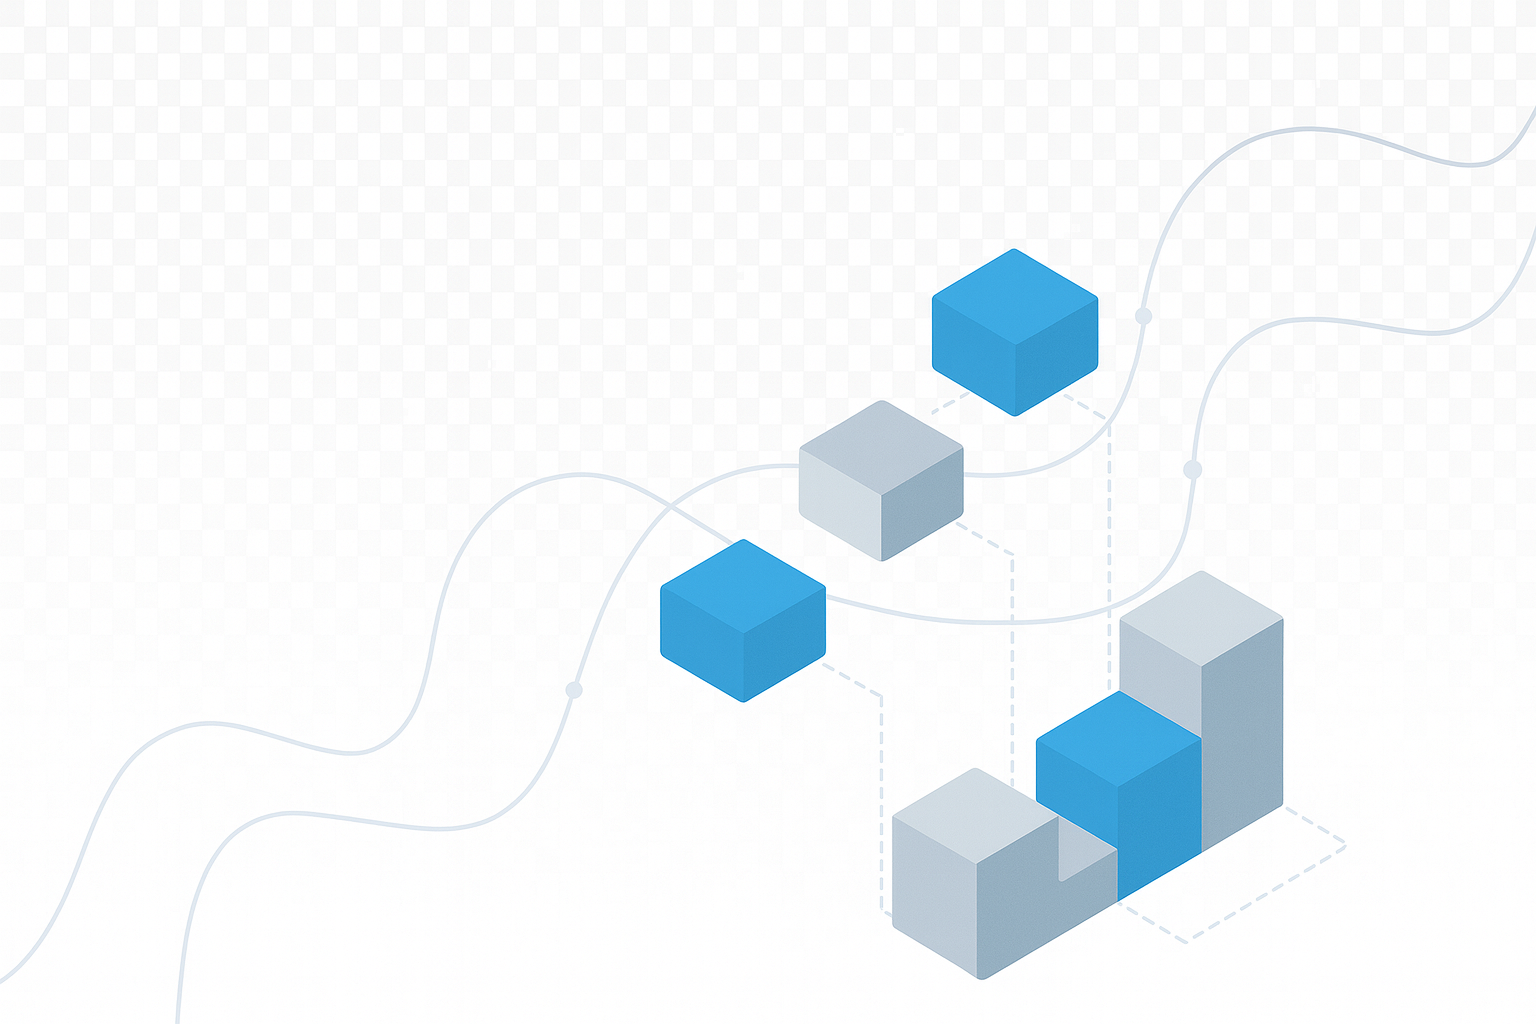
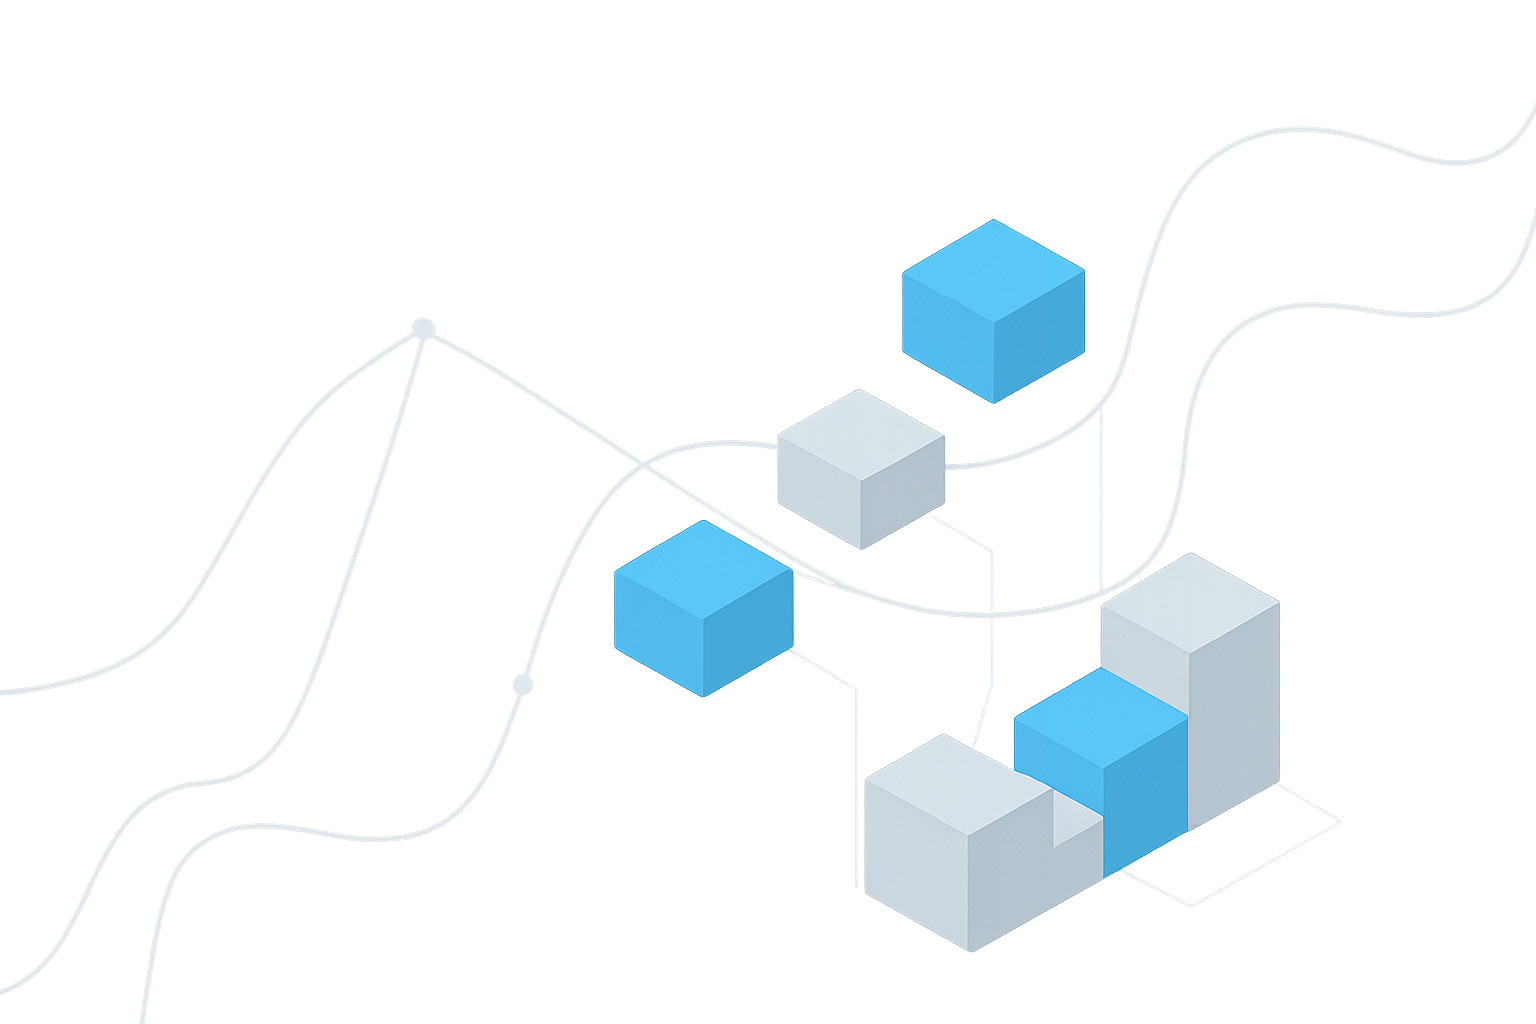
feat: added new sections into architecture page

diff --git a/index.html b/index.html
@@ -451,10 +451,41 @@
       <div class="highlight-box" id="data-generation">Loading generation logic...</div>
       <div class="highlight-box" id="data-value">Loading value for solution...</div>
       <p id="data-flow-text">
-        High-level data flow.
-      <div class="empty-state" id="data-flow-visual">
-        Data flow diagram.
-      </div>
+        This diagram shows how data actually moves inside StudentHub. Each portal (Student, Employer, University/Admin) writes into specific JSON data sources: events, jobs, news, watchlists, assignments, notifications, mentorships, and student profile activity. These files feed into a scoring engine that calculates each student’s focus and engagement based on real actions: events attended, news viewed, jobs applied, notes written, and watchlist items. The studentMetrics.json file becomes the central source for AI prompts, job-match analysis, improvement recommendations, cover letter drafts, and mentorship suggestions. Finally, all processed data goes to dashboards for admins and program staff, giving them a real view of engagement, employability, and mentoring pipelines.
+      </p>
+      <figure class="figure">
+        <img
+          class="lightbox-img"
+          src="assets/img/data-flow.png"
+          data-full="assets/img/data-flow.png"
+          data-caption="High-level data flow for StudentHub."
+          alt="High-level data flow diagram"
+        />
+        <figcaption>Figure A4. High-level data flow for StudentHub.</figcaption>
+      </figure>
+    </div>
+  </section>
+
+  <!-- Role Based System Flow -->
+  <section id="role-flow" class="section page" data-page="architecture">
+    <div class="container">
+      <h2>Role Based System Flow</h2>
+      <p class="section-intro">
+        This diagram shows how StudentHub works after a user logs in. Each user type sees different parts of the system based on their role. The platform validates the user’s identity, checks their role, and then unlocks specific features for Students, Employers, University Staff, and Super Admins. This keeps the system secure and focused—every user only interacts with tools that match their responsibilities.
+      </p>
+      <p class="section-intro">
+        It reflects the app workflow: login → role validation → role-based dashboards → actions (events, jobs, AI analysis, mentoring, admin controls). Together, this is a simple visual map of how core features are organized across the four roles in StudentHub.
+      </p>
+      <figure class="figure">
+        <img
+          class="lightbox-img"
+          src="assets/img/role-based-system-flow.png"
+          data-full="assets/img/role-based-system-flow.png"
+          data-caption="Role-based system flow across StudentHub."
+          alt="Role-based system flow diagram"
+        />
+        <figcaption>Figure A3. Role-based system flow for StudentHub.</figcaption>
+      </figure>
     </div>
   </section>
 

diff --git a/script.js b/script.js
@@ -663,10 +663,10 @@ function applySectionHero(sectionId, heroUrl) {
       overlay.innerHTML = `
         <div class="arch-left">
           <p class="hero-heading-large">StudentHub</p>
-          <p class="hero-subtitle-large">Dashboard & Data Analysis</p>
+          <p class="hero-subtitle-large">Dashboard</p>
         </div>
         <div class="home-illustration" aria-hidden="true">
-          <img src="assets/img/hero/8.png" alt="" />
+          <img src="assets/img/hero/7.png" alt="" />
         </div>
       `;
       hero.appendChild(overlay);
@@ -737,18 +737,17 @@ function applySectionHero(sectionId, heroUrl) {
       hero.appendChild(overlay);
     }
   } else if (sectionId === "ethics") {
-    hero.classList.add("hero-ethics");
+    hero.classList.add("hero-architecture");
     if (!hero.querySelector(".ethics-hero-content")) {
       const overlay = document.createElement("div");
-      overlay.className = "ethics-hero-content";
+      overlay.className = "home-hero-content ethics-hero-content";
       overlay.innerHTML = `
-        <div class="ethics-left">
-          <p class="eyebrow">StudentHub</p>
-          <h3>Ethics & Trust</h3>
-          <p class="ethics-sub">Privacy-first, consent-led, and inclusive by default.</p>
+        <div class="arch-left">
+          <p class="hero-heading-large">StudentHub</p>
+          <p class="hero-subtitle-large">Ethics & Trust</p>
         </div>
-        <div class="ethics-illustration" aria-hidden="true">
-          <!-- SVG kept as-is -->
+        <div class="home-illustration" aria-hidden="true">
+          <img src="assets/img/hero/12.png" alt="" />
         </div>
       `;
       hero.appendChild(overlay);
